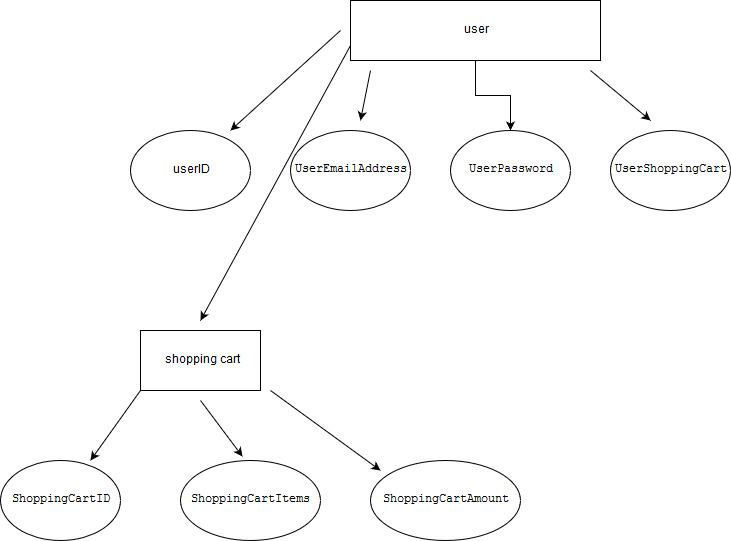
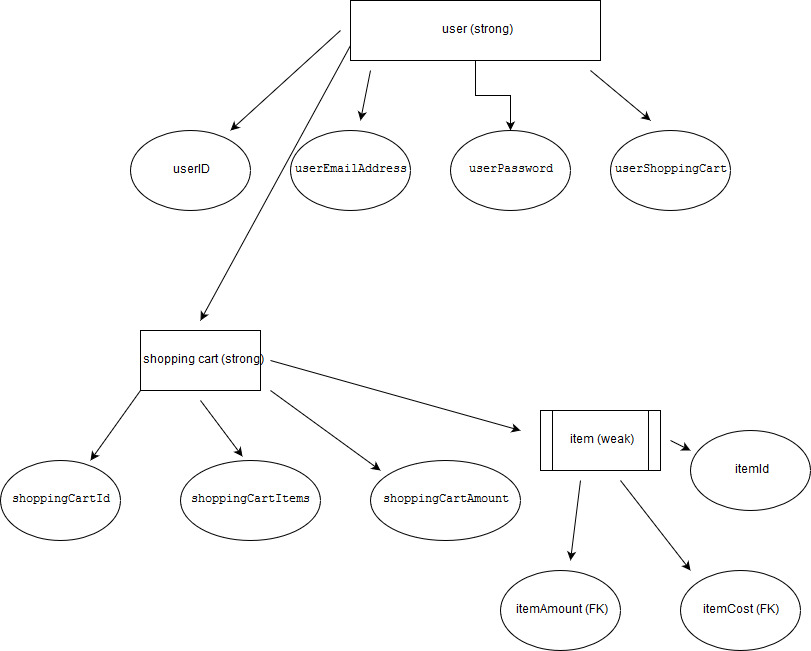
updated drawing

diff --git a/epic/conceptual-model.php b/epic/conceptual-model.php
@@ -3,16 +3,21 @@
 	<p><strong>Entities & Attributes:</strong></p>
 	<li>
 		<strong>User</strong>
-		<p>UserName (primary key)</p>
-		<p>UserEmailAddress</p>
-		<p>UserPassword</p>
-		<p>UserShoppingCart</p>
+		<p>userID (primary key)</p>
+		<p>userEmailAddress</p>
+		<p>userPassword</p>
+		<p>userShoppingCart</p>
 	</li>
 	<li>
 		<strong>Shopping Cart</strong>
-		<p>ShoppingCartID (primary ID)</p>
-		<p>ShoppingCartItems</p>
-		<p>ShoppingCartAmount</p>
+		<p>shoppingCartID (primary key)</p>
+		<p>shoppingCartItems</p>
+	</li>
+	<li>
+		<strong>Item</strong>
+		<p>itemID (weak)</p>
+		<p>itemAmount (foreign key)</p>
+		<p>itemCost(foreign key)</p>
 	</li>
 	<li>
 		<strong>Relations</strong>
